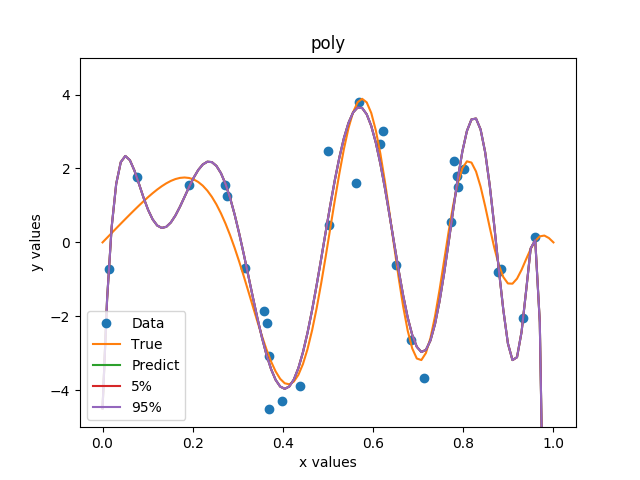
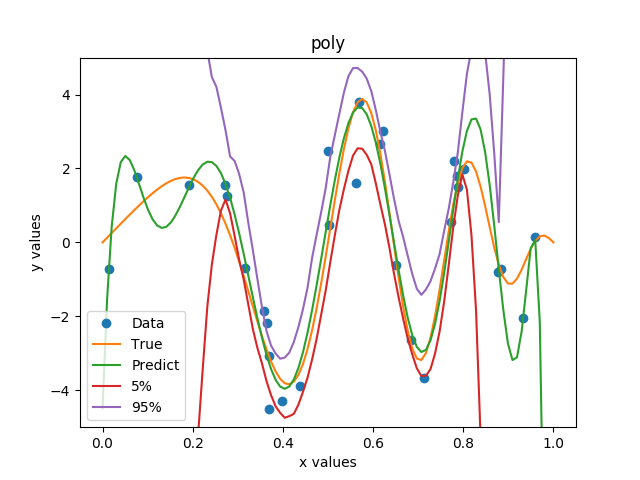
better but weirder plots

diff --git a/hw3-code/src/kernel.py b/hw3-code/src/kernel.py
@@ -26,8 +26,8 @@ def main():
   """
 
   true_data = [true_f(x_val) for x_val in c.x_list]
-  poly_pred_data = k_poly.get_fhat_data()
-  rbf_pred_data = k_rbf.get_fhat_data()
+  poly_pred_data = k_poly.get_fhat_data(X, Y)
+  rbf_pred_data = k_rbf.get_fhat_data(X, Y)
 
   poly_list = [true_data, poly_pred_data]
   rbf_list = [true_data, rbf_pred_data]
@@ -84,8 +84,8 @@ class Kernel:
     print("hyperparam: " + str(self.hp))
     print("lambda: " + str(self.lamb))
 
-  def get_fhat_data(self):
-    pred_f = self.kernel_rr(self.X, self.Y, self.hp, self.lamb)
+  def get_fhat_data(self, x, y):
+    pred_f = self.kernel_rr(x, y, self.hp, self.lamb)
 
     return [pred_f(x_val) for x_val in c.x_list]
 
@@ -147,11 +147,15 @@ class Kernel:
     for i in range(B):
       index_samples = np.random.choice(n, n)
 
+      print(index_samples)
+
       x_b = self.X[index_samples]
       y_b = self.Y[index_samples]
 
-      fhat_list[i] = self.get_fhat_data()
+      fhat_list[i] = np.copy(self.get_fhat_data(x_b, y_b))
     
+    print(fhat_list)
+
     bot_5 = np.percentile(fhat_list, 5, axis=0)
     top_5 = np.percentile(fhat_list, 95, axis=0)
 
